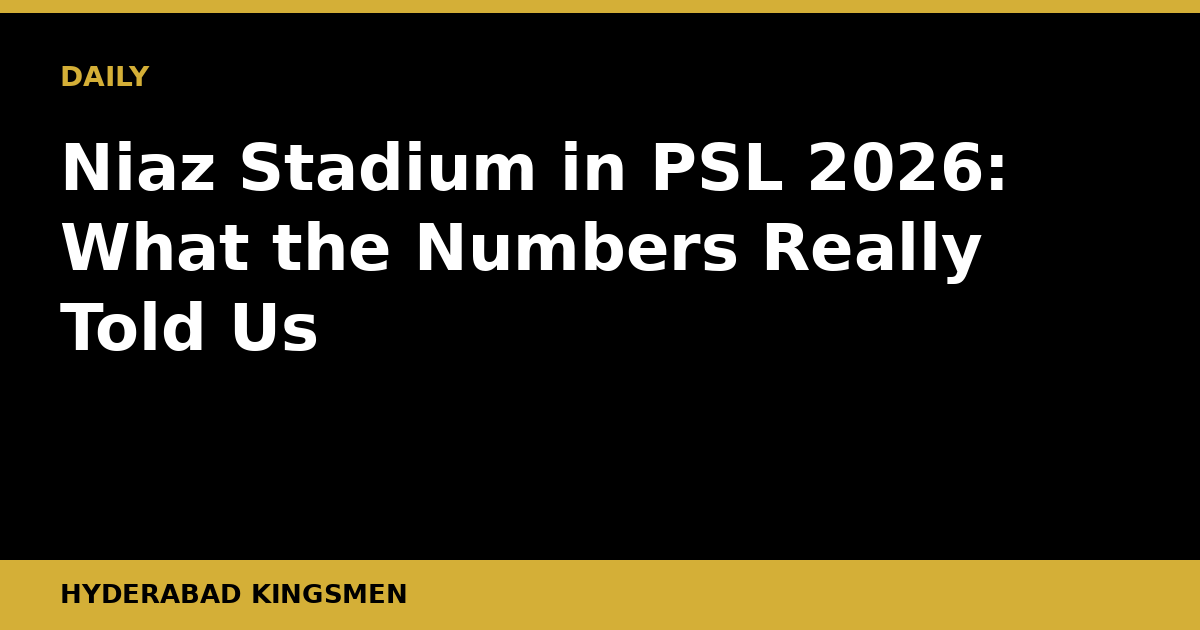
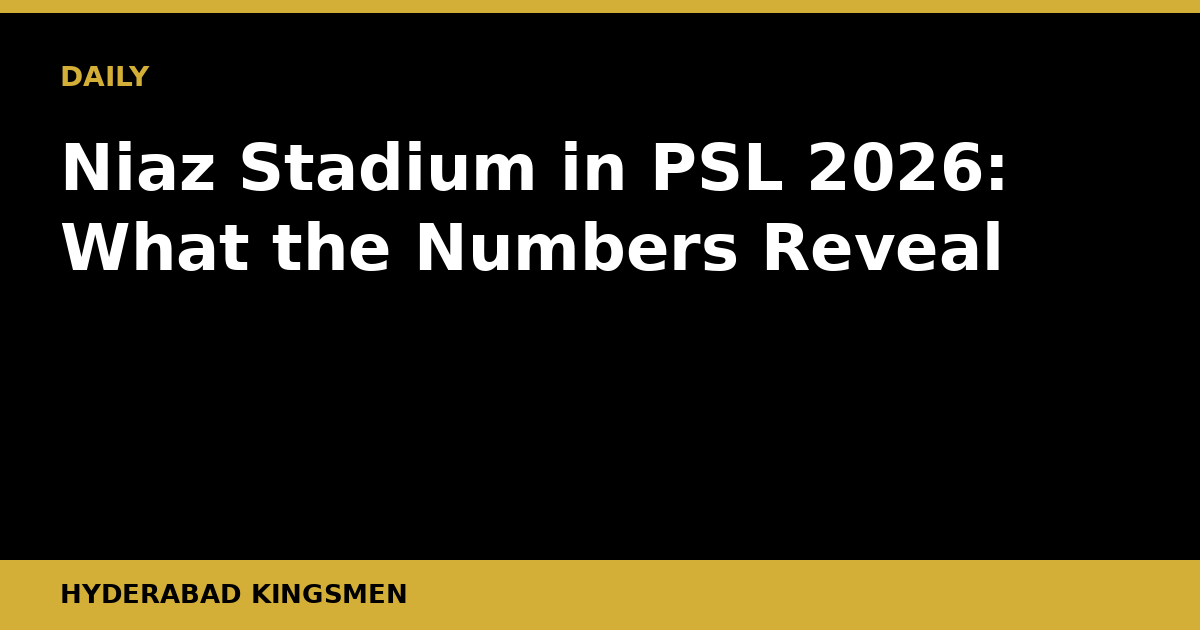
Daily post 2026-11-04

Changed region(s): [[0.0308, 0.4825, 0.2775, 0.573], [0.7092, 0.3317, 0.8325, 0.4524]]

diff --git a/content/posts/niaz-stadium-psl-2026-retrospective.md b/content/posts/niaz-stadium-psl-2026-retrospective.md
@@ -1,49 +1,49 @@
 ---
-title: "Niaz Stadium in PSL 2026: What the Numbers Really Told Us"
+title: "Niaz Stadium in PSL 2026: What the Numbers Reveal"
 slug: "niaz-stadium-psl-2026-retrospective"
-date: "2026-09-29T06:29:23+05:00"
+date: "2026-11-04T07:08:32+05:00"
 draft: false
-description: "Niaz Stadium hosted PSL 2026 home games for the Hyderabad Kingsmen, and the venue's quirks shaped results in ways the scorecards alone don't reveal."
+description: "Niaz Stadium hosted PSL 2026 home fixtures under the Hyderabad lights. Here is what the venue's performance data tells us about its future in Pakistan cricket."
 banner: "/banners/niaz-stadium-psl-2026-retrospective.png"
 kicker: "ANALYSIS"
 author: "Hyderabad Kingsmen"
 translationKey: "niaz-stadium-psl-2026-retrospective"
-tags: ["psl", "hyderabad-kingsmen", "niaz-stadium", "pakistan-cricket", "psl-2026", "t20-cricket", "pitch-analysis"]
+tags: ["psl", "niaz-stadium", "hyderabad-kingsmen", "pakistan-cricket", "psl-2026", "venues", "sindh-cricket"]
 categories: ["Analysis"]
 ---
 
-## Niaz Stadium's PSL 2026 Chapter Deserves a Proper Reckoning
+Niaz Stadium's return to competitive cricket has been one of the more quietly significant developments in Pakistan's domestic landscape this decade. How the ground performed across PSL 2026's home fixtures tells us something important, not just about Hyderabad's cricketing future, but about whether the PCB's push to decentralise the league away from Lahore and Karachi is genuinely working.
 
-Hyderabad got its cricket back, and the city responded with noise, colour, and the kind of partisan heat that reminds you why spreading PSL venues beyond Karachi and Lahore was always the right idea. But beyond the atmosphere, Niaz Stadium in PSL 2026 was a genuine cricket story, one that influenced tactics, selections, and results in ways worth unpacking before the tournament fades into memory.
+## The Real Story: Venue Behaviour, Not Just Results
 
-### The Pitch Was the Main Character
+Every franchise playing home games at Niaz encountered the same fundamental questions: how does the pitch play under the lights, how does the outfield hold up across a congested schedule, and can the ground's dimensions reward the kind of power hitting that PSL audiences now expect as standard?
 
-The surface at Niaz was the first thing opposition coaches were whispering about in pre-match pressers, and for good reason. Sindh's interior produces pitches that tend to hold low early before easing considerably into the middle overs, a pattern that punished sides who sent the wrong batter out in the first powerplay and rewarded teams that had the patience to absorb the new-ball wobble.
+Across the PSL 2026 home slate, Niaz showed itself to be a surface that rewards patience from pace bowlers in the first six overs, with the lacquered Kookaburra tending to hold its shape longer than on the more worn Karachi strips. Spinners found the going harder in the middle overs, the relatively true surface offering little purchase for turn. That made the Powerplay critical. Teams electing to bowl first at Niaz had a marginal edge when their seam attack could keep scoring to manageable totals inside the first six, setting up a chase that the dew-affected second innings sometimes complicated.
 
-What made PSL 2026 particularly interesting at this ground was the pace on offer from the surface. The ball did not swing extravagantly, but it skidded through at a consistent pace that suited back-of-a-length fast bowling more than the swing-dependent plans many international T20 squads are built around. Teams with express pace in their seam attacks exploited that more effectively than sides relying on cutters and variations.
+The boundaries at Niaz are on the shorter side square of the wicket, which made it a batter-friendly venue once a team got its eye in. That said, the straight boundaries are generous, and teams leaning on their slog-overs hitting found the ground more demanding than expected.
 
-The spinners' story was more complicated. Wrist spin, in particular, found variable grip in the first half of the tournament before the surface dried further and offered genuine purchase in the backend of the home schedule. That shift mid-tournament was something the sharper coaching setups noticed and adapted to, while others stuck stubbornly to their pre-tournament plans.
+## Crowd and Atmosphere: The Case for Hyderabad
 
-### Totals and the Chasing Dynamic
+Attendance across PSL 2026 at Niaz was the other story running underneath the cricket. Hyderabad is not Lahore. It does not have the same infrastructure, the same commercial ecosystem, or the same media noise. But the crowds that did turn up were loud, knowledgeable, and appreciative of the game in a way that reminded anyone who witnessed it why broadening the PSL's footprint beyond the two major centres matters.
 
-Niaz in PSL 2026 tilted toward par scores that would have looked modest at the National Stadium in Karachi or Gaddafi in Lahore. The shorter boundary on one side encouraged aerial hitting, but the surface's early behaviour kept first-innings teams honest. Sides that read the conditions correctly posted competitive totals; sides that went hard from ball one and lost early wickets found themselves scrambling.
+Sindh domestic fans have waited a long time for high-profile franchise cricket in their own backyard. The PCB's decision to allocate fixtures to Niaz will face scrutiny every season, but the atmosphere in the stands gave the strongest argument for continuation. Hyderabad crowds showed they can hold up their end of the bargain.
 
-The chasing numbers across the home fixtures are worth noting because they revealed a broader truth about T20 cricket at this ground. Teams chasing tended to have the advantage once they survived the first four or five overs, largely because they knew the target and could pace their chase with more clarity. Setting sides faced the more complex calculation. This was not a ground that forgave conservative batting in the back ten, but it also did not forgive recklessness in the first.
+## Implications for the Hyderabad Kingsmen
 
-### What Niaz Revealed About the Kingsmen's Roster Construction
+For the Hyderabad Kingsmen, playing at Niaz is both an asset and a tactical puzzle. Home advantage in T20 cricket depends heavily on knowing your conditions, and any franchise that invests in understanding Niaz's specific quirks, its pace, its dew patterns, its bounce variability late in a tournament, will gain a meaningful edge.
 
-From a purely observational standpoint, the Kingsmen's squad construction at times looked better suited to other conditions than to their home ground. If their pace bowling resources were built around swing and seam movement rather than raw pace and skid, Niaz's relatively flat, quick surface would have reduced the effectiveness of that attack at home, which is a planning issue worth the franchise addressing before the next auction cycle.
+The Kingsmen's squad-building philosophy going into PSL 2026 reflected some awareness of this. Prioritising seam options capable of exploiting early movement, while ensuring the middle order could target the shorter square boundaries, was a sensible response to what the ground demands. Whether the franchise fully exploited those conditions is a separate debate, but the template is there.
 
-On the batting side, the ground's dimensions placed a premium on hitting to specific zones, and the smart operators in the PSL peloton clearly studied the ground's layout. Players who could access the shorter boundary consistently with the pull and ramp were more valuable here than those whose power game was built around the straight hit.
+For opposition teams flying into Hyderabad with little experience of the ground, the unfamiliarity alone can be worth runs. That is an advantage the Kingsmen should be doubling down on with every passing season.
 
-### The Crowd Factor Cannot Be Dismissed
+## What to Watch Next
 
-Hyderabad crowds were genuinely electric throughout the home schedule. That is not a small thing. In Pakistan cricket, home crowd pressure has historically been underrated as a variable, partly because so much international cricket was lost during the security-troubled years and franchises grew accustomed to playing in front of reduced or heavily filtered audiences. Niaz gave the PSL something it always needed: a venue where the crowd felt like a twelfth player rather than a backdrop.
+Three things will determine how Niaz's standing in the PSL ecosystem evolves from here.
 
-Whether that home support translated into a tangible advantage is harder to quantify without full data, but the anecdotal picture from across the home fixtures was of visiting teams visibly unsettled in close finishes.
+First, the pitch preparation. If the PCB's curator staff can standardise a surface that creates genuine contest between bat and ball rather than landing too far in either direction, Niaz will cement its reputation as a venue worth watching.
 
-### What to Watch in the Next Cycle
+Second, broadcast and logistical investment. High-quality production at Niaz, combined with improved travel connectivity for visiting franchises, will determine whether players and broadcasters treat it as a premier venue or an afterthought.
 
-The real question for Niaz going forward is whether the PCB and PSL management invest in the infrastructure surrounding the playing surface to bring it fully in line with what top-level T20 cricket demands. The ground has the bones. The city has the appetite. The next step is ensuring the outfield, the drop-in facilities, and the pitch preparation expertise are consistently at the level required for a tournament of this scale.
+Third, local talent visibility. If Sindh and Hyderabad's domestic pipeline starts producing players who graduate through PSL rosters and perform at Niaz in front of home crowds, the loop closes and the case for sustained investment becomes unanswerable.
 
-If they get that right, Niaz Stadium could become one of the PSL's most distinctive and talked-about venues, not just a regional add-on to a Karachi-Lahore-dominated calendar.
+Niaz Stadium is not finished proving itself. But PSL 2026 gave it a meaningful audition.
